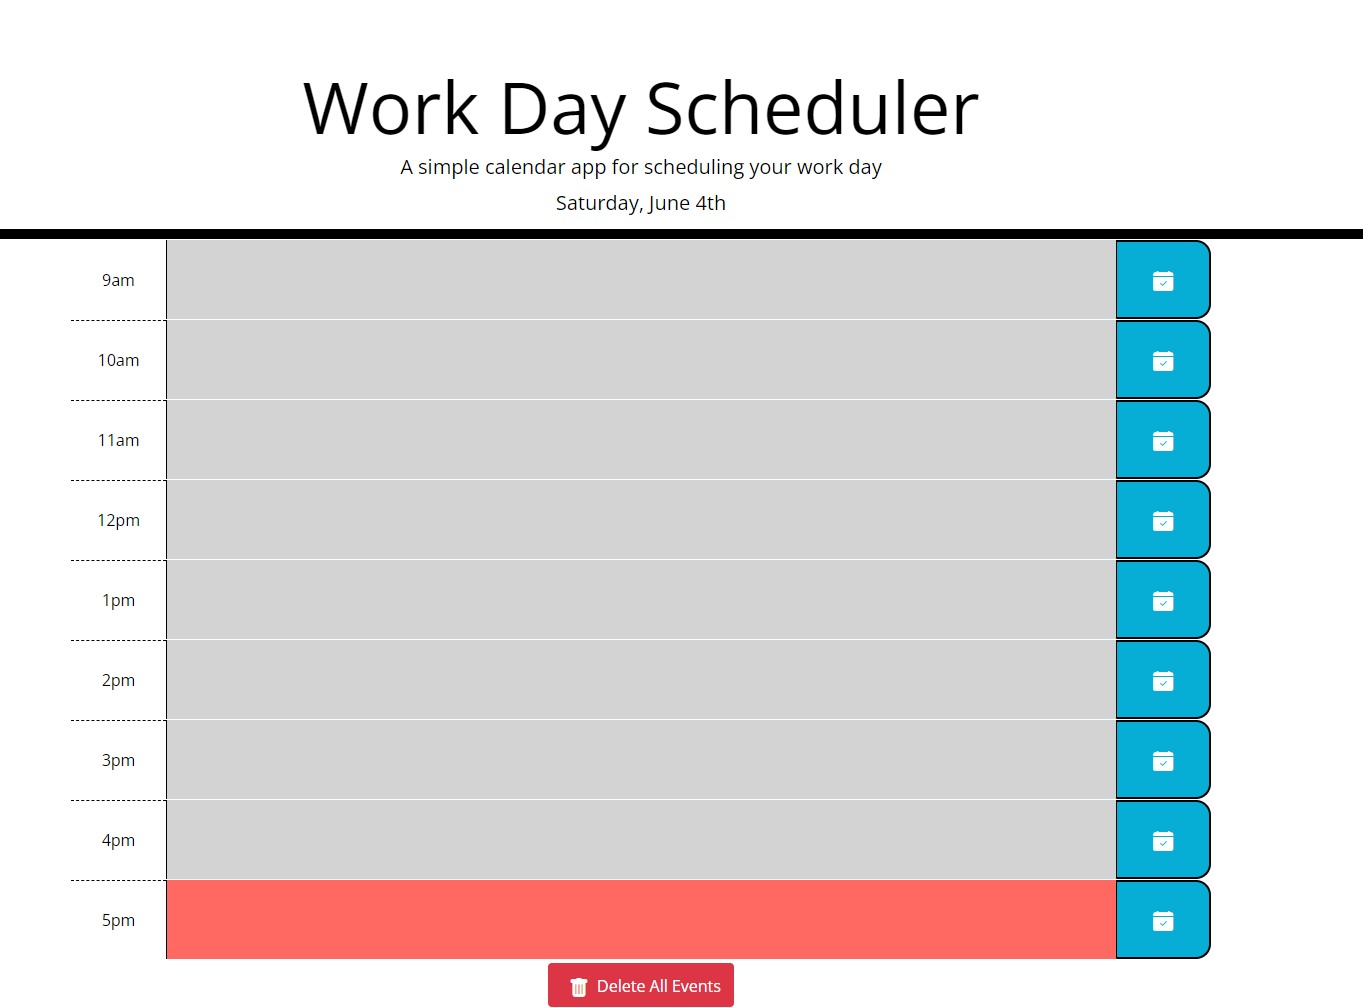
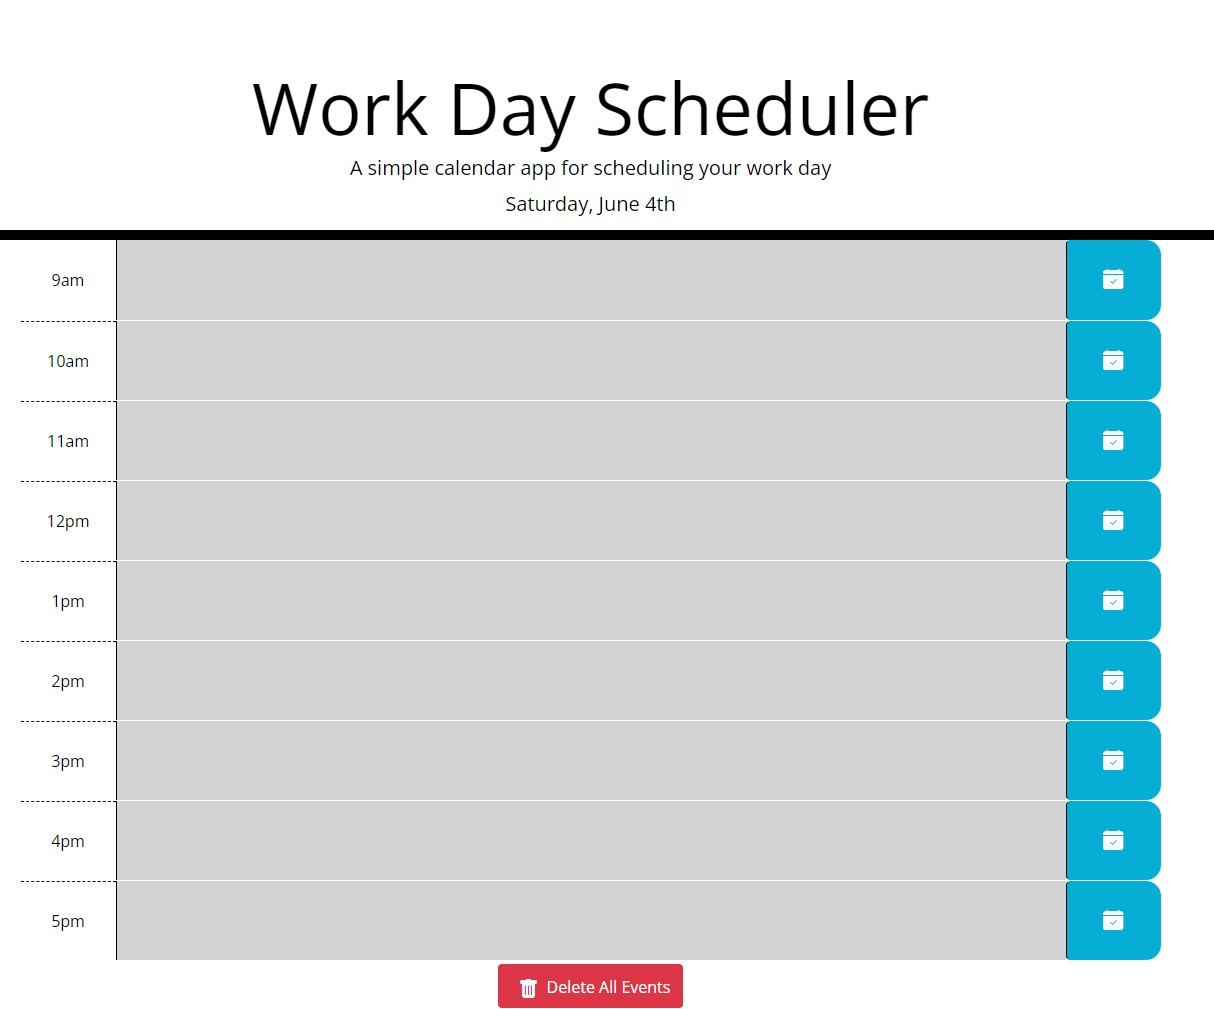
Updated image used in README

Changed region(s): [[0.0305, 0.2153, 0.9753, 1.0], [0.2133, 0.0615, 0.7619, 0.2153]]

diff --git a/README.md b/README.md
@@ -38,6 +38,6 @@ The following animation is the supplied demonstration of the application functio
 
 The deployed application can be found [here](https://cnohilly.github.io/work-day-scheduler/)
 
-The following image is the finished application:
+The following image is the finished application (Screenshot taken at 5pm):
 
 ![Work Day Scheduler finished application](./assets/images/workday-schedule-application.jpg)
